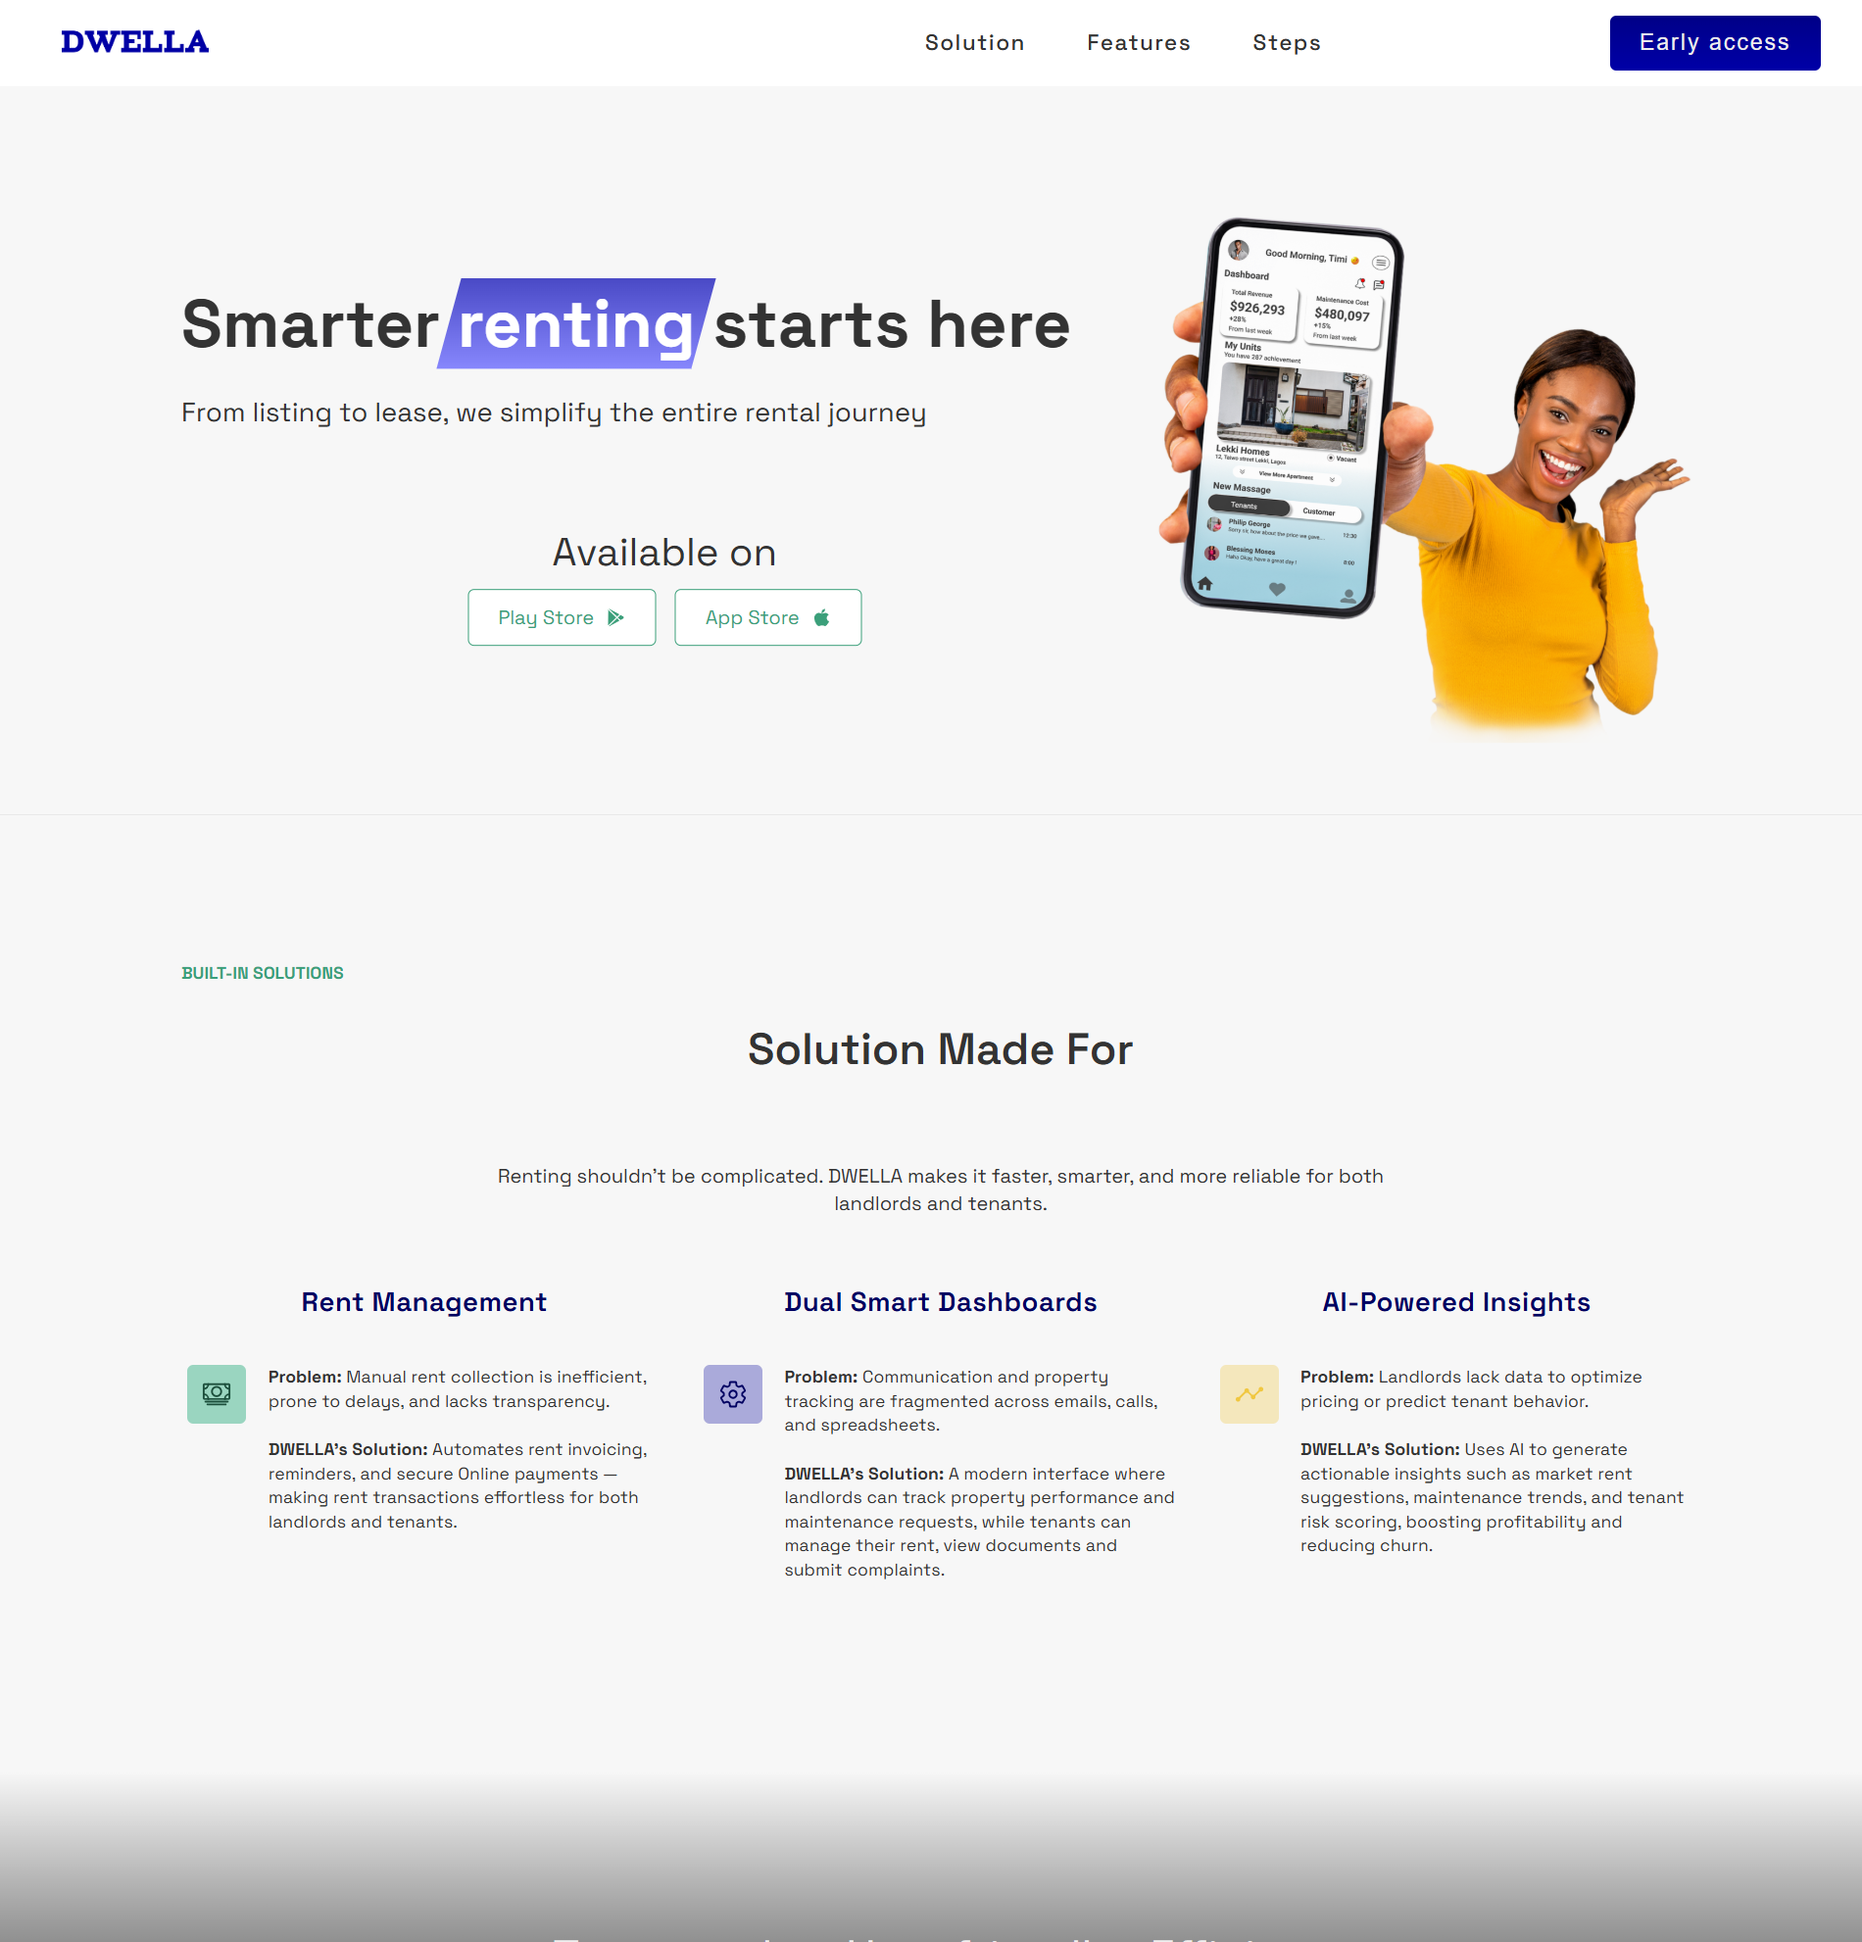
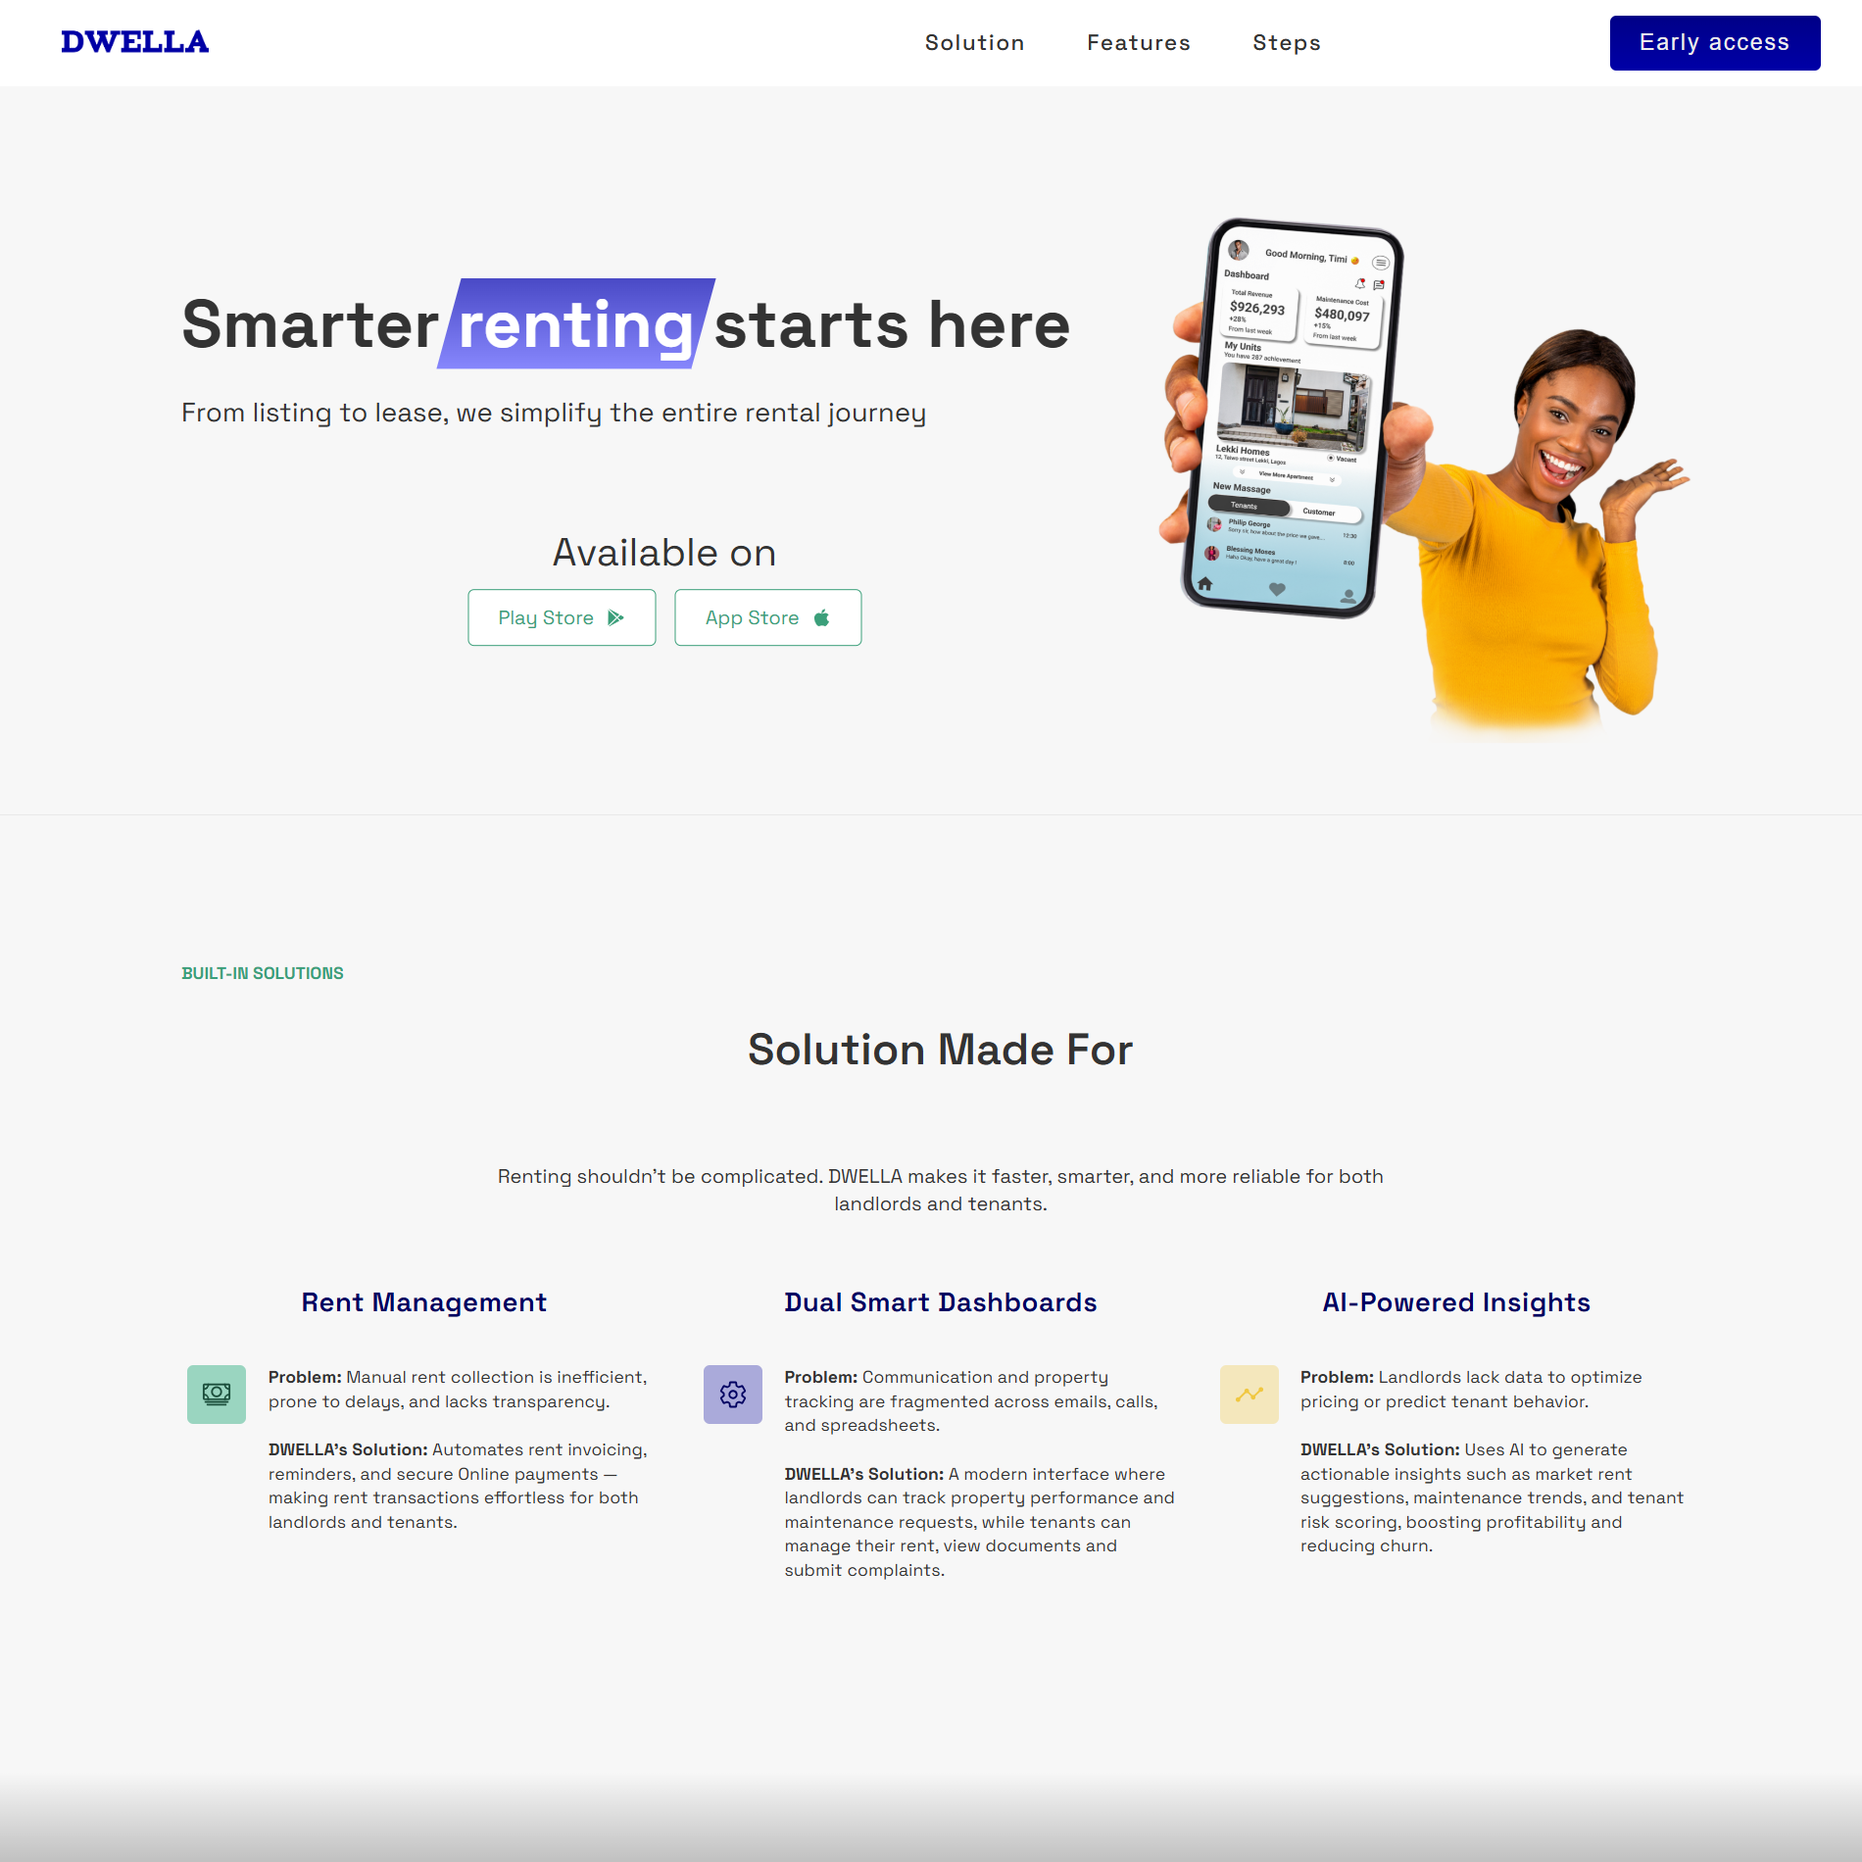
updated

diff --git a/src/styles/global.css b/src/styles/global.css
@@ -15,6 +15,7 @@ body {
   font-family: "Segoe UI", sans-serif;
   background: var(--bg);
   color: var(--text);
+  /* background: radial-gradient(circle at 30% 20%, #1a1a40, #0d0d1a); */
 }
 
 section {
@@ -51,5 +52,91 @@ button {
 @media screen and (max-width: 600px) {
   section {
     padding: 50px 5%;
+  }
+}
+
+/* STAR LAYERS */
+/* STAR LAYERS */
+.stars,
+.stars2,
+.stars3 {
+  position: fixed;
+  top: 0;
+  left: 0;
+  width: 200%;
+  height: 200%;
+  z-index: -1;
+  background-repeat: repeat;
+}
+
+.stars::after,
+.stars2::after,
+.stars3::after {
+  content: "";
+  position: absolute;
+  top: 100%;
+  width: 100%;
+  height: 100%;
+  background: inherit;
+}
+
+/* SMALL STARS (dense) */
+.stars {
+  position: fixed;
+  top: 0;
+  left: 0;
+  width: 200%;
+  height: 200%;
+  z-index: -1;
+
+  background-image:
+    radial-gradient(1px 1px at 10% 20%, white, transparent),
+    radial-gradient(1px 1px at 30% 80%, white, transparent),
+    radial-gradient(1px 1px at 50% 50%, white, transparent),
+    radial-gradient(1px 1px at 70% 30%, white, transparent),
+    radial-gradient(1px 1px at 90% 70%, white, transparent),
+    radial-gradient(1px 1px at 15% 60%, white, transparent),
+    radial-gradient(1px 1px at 25% 40%, white, transparent),
+    radial-gradient(1px 1px at 55% 75%, white, transparent);
+
+  background-size: 300px 300px; /* 👈 repeats pattern */
+  animation: moveStars 120s linear infinite;
+}
+
+/* MEDIUM STARS */
+.stars2 {
+  position: fixed;
+  width: 200%;
+  height: 200%;
+  z-index: -1;
+
+  background-image:
+    radial-gradient(2px 2px at 20% 30%, #a29bfe, transparent),
+    radial-gradient(2px 2px at 60% 70%, #a29bfe, transparent),
+    radial-gradient(2px 2px at 60% 70%, #a29bfe, transparent),
+    /* radial-gradient(2px 2px at 60% 70%, #a29bfe, transparent), */
+    radial-gradient(2px 2px at 80% 40%, #a29bfe, transparent);
+
+  background-size: 400px 400px;
+  animation: moveStars 180s linear infinite;
+}
+
+/* BIG STARS */
+.stars3 {
+  background-image:
+    radial-gradient(3px 3px at 150px 250px, #6c5ce7, transparent),
+    radial-gradient(3px 3px at 350px 150px, #6c5ce7, transparent),
+    radial-gradient(3px 3px at 350px 150px, #6c5ce7, transparent),
+    radial-gradient(10px 10px at 350px 150px, #6c5ce7, transparent);
+  animation: moveStars 250s linear infinite;
+}
+
+/* SMOOTH MOVEMENT */
+@keyframes moveStars {
+  from {
+    transform: translateY(0);
+  }
+  to {
+    transform: translateY(-50%);
   }
 }

diff --git a/public/data.js b/public/data.js
@@ -2,10 +2,14 @@ import dwellaImage from "../src/images/dwella.png";
 import movieAppImage from "../src/images/movradar.png";
 import dwellaPreview from "../src/images/dwella-preview.png";
 import movieAppPreview from "../src/images/movradar-preview.png";
+import bankistImage from "../src/images/bankist.png";
+import bankistPreview from "../src/images/bankist-preview.png";
+import gymbayImage from "../src/images/gymbay.png";
+import gymbayPreview from "../src/images/gymbay-preview.png";
 
 const projectsDone = [
   {
-    title: "Movie App",
+    title: "Movradar",
     description:
       "A movie discovery app with API integration, favorites, and dynamic UI.",
     live: "https://movradar.netlify.app/",
@@ -15,7 +19,7 @@ const projectsDone = [
     preview: movieAppPreview,
   },
   {
-    title: "DWELLA",
+    title: "Dwella",
     description:
       "A real estate platform for seamless property discovery and landlord-tenant interaction.",
     live: "https://mydwella.africa/",
@@ -23,6 +27,26 @@ const projectsDone = [
     tech: ["React", "CSS", "API"],
     image: dwellaImage,
     preview: dwellaPreview,
+  },
+  {
+    title: "Gymbay",
+    description:
+      "A fitness platform for seamless workout discovery and trainer interaction.",
+    live: "https://gymbay.netlify.app/",
+    github: "https://github.com/timlane1132/Gymbay",
+    tech: ["React", "CSS", "API"],
+    image: gymbayImage,
+    preview: gymbayPreview,
+  },
+  {
+    title: "Bankist",
+    description:
+      "A modern banking app with a focus on user experience and financial management.",
+    live: "https://bankist.netlify.app/",
+    github: "https://github.com/timlane1132/Bankist",
+    tech: ["JavaScript", "CSS", "HTML"],
+    image: bankistImage,
+    preview: bankistPreview,
   },
 ];
 

diff --git a/src/sections/Projects.jsx b/src/sections/Projects.jsx
@@ -7,28 +7,41 @@ const Projects = () => {
   const [selectedProject, setSelectedProject] = useState(null);
 
   return (
-    <section id="projects" className="projects">
+    <motion.section
+      id="projects"
+      className="projects"
+      initial={{ opacity: 0, y: 50 }}
+      whileInView={{ opacity: 1, y: 0 }}
+      transition={{ duration: 0.6 }}
+      viewport={{ once: true, amount: 0.3 }}
+    >
       <h2>Projects</h2>
 
       <div className="projects-container">
         {projectsDone.map((project, index) => (
-          <motion.div
+          <div
             className="project-card"
             key={index}
-            whileHover={{ scale: 1.05 }}
             onClick={() => setSelectedProject(project)}
           >
-            <img src={project.image} alt={project.title} />
-
             <h3>{project.title}</h3>
             <p>{project.description}</p>
+            <motion.img
+              src={project.image}
+              alt={project.title}
+              whileHover={{
+                boxShadow: "0px 5px 15px rgba(151, 151, 151, 0.3)",
+                y: -2,
+              }}
+              transition={{ duration: 0.3 }}
+            />
 
             <div className="tech-tags">
               {project.tech.map((tech, i) => (
                 <span key={i}>{tech}</span>
               ))}
             </div>
-          </motion.div>
+          </div>
         ))}
       </div>
 
@@ -52,7 +65,7 @@ const Projects = () => {
           </div>
         </div>
       )}
-    </section>
+    </motion.section>
   );
 };
 

diff --git a/src/App.jsx b/src/App.jsx
@@ -7,6 +7,11 @@ import Contact from "./sections/Contact";
 function App() {
   return (
     <>
+      {/* STAR BACKGROUND */}
+      <div className="stars"></div>
+      <div className="stars2"></div>
+      <div className="stars3"></div>
+
       <Navbar />
       <Hero />
       <About />

diff --git a/src/sections/About.jsx b/src/sections/About.jsx
@@ -9,6 +9,7 @@ const About = () => {
         initial={{ opacity: 0, y: 50 }}
         whileInView={{ opacity: 1, y: 0 }}
         transition={{ duration: 0.6 }}
+        viewport={{ once: true, amount: 0.3 }}
       >
         {/* LEFT SIDE */}
         <div className="about-text">

diff --git a/src/styles/about.css b/src/styles/about.css
@@ -63,10 +63,13 @@
   width: 85%;
 }
 .skill:nth-child(4) span::before {
-  width: 80%;
+  width: 83%;
 }
 .skill:nth-child(5) span::before {
-  width: 75%;
+  width: 90%;
+}
+.skill:nth-child(6) span::before {
+  width: 90%;
 }
 
 @keyframes fillBar {

diff --git a/src/styles/projects.css b/src/styles/projects.css
@@ -38,11 +38,7 @@
     linear-gradient(#000 0 0);
   -webkit-mask-composite: xor;
   mask-composite: exclude;
-}
-
-/* Hover lift */
-.project-card:hover {
-  transform: translateY(-8px);
+  pointer-events: none;
 }
 
 /* TEXT */
